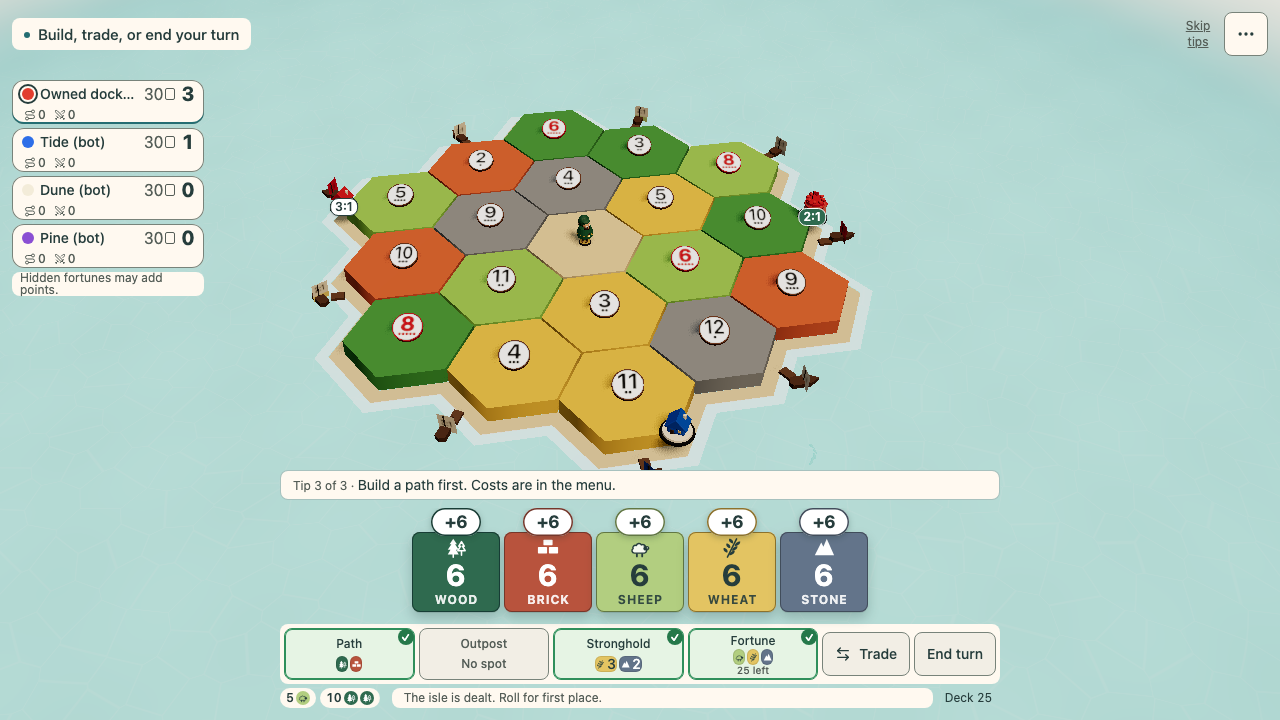
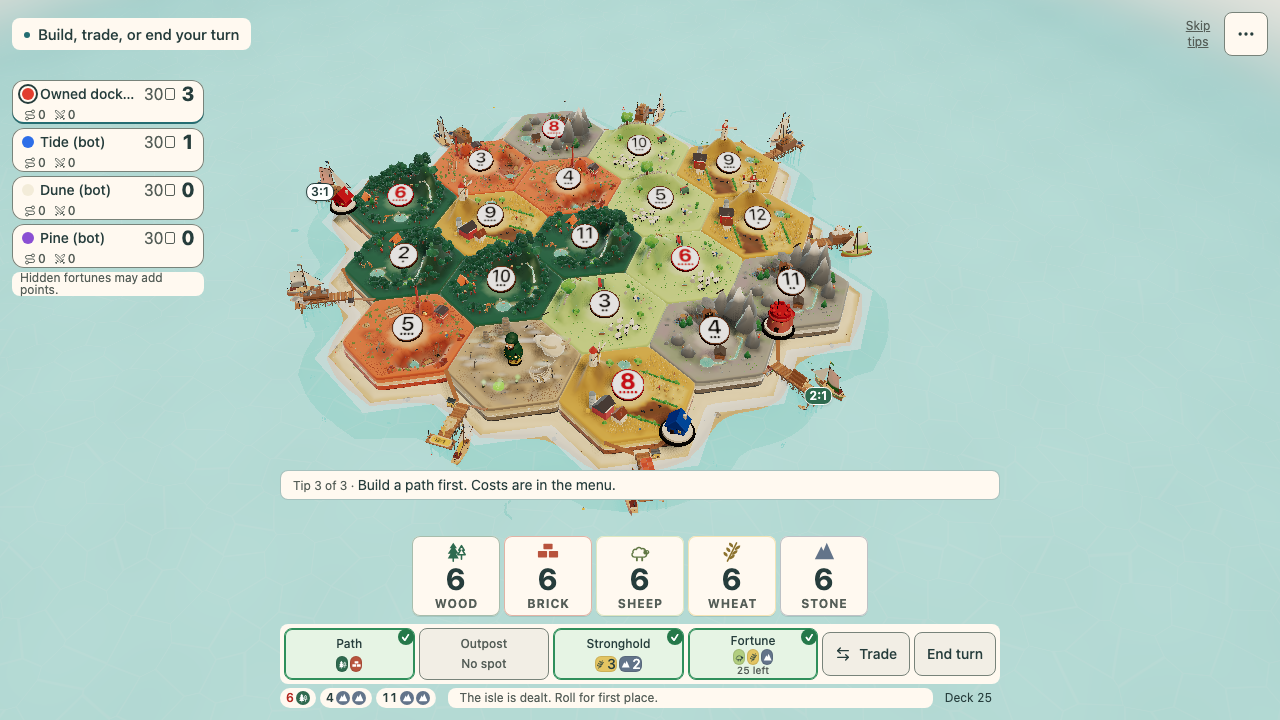
Put owned dock rates on the pier, not on the building (#560)
The owner rejected the chip over the controlling piece. The rate sits on the pier plate. If that plate would cover the piece, the chip steps further to sea.

Changed region(s): [[0.2188, 0.1222, 0.6875, 0.8556], [0.2188, 0.9472, 0.5, 1.0]]

diff --git a/src/lib/scene/isle-renderer.ts b/src/lib/scene/isle-renderer.ts
@@ -282,6 +282,8 @@ export class IsleRenderer {
   private docksDirty = true;
   onOwnedDocks: (docks: readonly OwnedDockPosition[]) => void = () => {};
   private ownedDockPositions: OwnedDockPosition[] = [];
+  // Rate plates on the jelly piers, keyed by either corner of the dock. Empty until the shore swaps in.
+  private dockPlates = new Map<string, { x: number; y: number; z: number }>();
   private ownedDocksDirty = true;
   private choice: WaterPath | null = null;
   private waterSet = false;
@@ -1537,18 +1539,58 @@ export class IsleRenderer {
     }
   }
 
-  // Project the controlling buildings independently of land geometry and placement marks (#560).
+  // Where the owned rate sits: the pier plate once the shore is in, otherwise the plain pier's sea end.
+  // Owner 2026-11-03: not on the controlling building. Owner 2026-10-16: not on the sails.
+  private dockSpot(id: string): { x: number; y: number; z: number } | null {
+    const plate = this.dockPlates.get(id);
+    if (plate) return plate;
+    const dock = this.docks.find((d) => d.vids.includes(id));
+    if (!dock) return null;
+    return { x: dock.cx + dock.mx * 0.46, y: 0.14, z: dock.cz + dock.mz * 0.46 };
+  }
+
+  // The chip's page point: the pier plate, pushed further to sea when that plate would cover the building.
+  private labelPoint(id: string, vertex: { x: number; z: number }, top: number): { x: number; y: number } | null {
+    const spot = this.dockSpot(id);
+    if (!spot || !this.lastState) return null;
+    const plate = this.screenAt(spot.x, spot.y, spot.z);
+    const house = this.screenAt(vertex.x, top, vertex.z);
+    let dx = plate.x - house.x;
+    let dy = plate.y - house.y;
+    let dist = Math.hypot(dx, dy);
+    if (dist < 1) {
+      const dock = this.docks.find((d) => d.vids.includes(id));
+      if (!dock) return plate;
+      const out = this.screenAt(dock.cx + dock.mx, 0.14, dock.cz + dock.mz);
+      const mid = this.screenAt(dock.cx, 0.14, dock.cz);
+      dx = out.x - mid.x;
+      dy = out.y - mid.y;
+      dist = Math.hypot(dx, dy) || 1;
+    }
+    // The chip is about 28 by 18. Keep its centre at least 28 px from the building point.
+    const clear = 28;
+    if (dist >= clear) return plate;
+    return { x: house.x + (dx / dist) * clear, y: house.y + (dy / dist) * clear };
+  }
+
+  // Where the owned-rate chip sits, in page pixels. The owned-dock proof reads it.
+  pierScreen(id: string): { x: number; y: number } | null {
+    const st = this.lastState;
+    const vertex = st?.vertices.find((v) => v.id === id);
+    if (!st || !vertex) return null;
+    return this.labelPoint(id, vertex, vertexTop(hexTops(st), vertex));
+  }
+
+  // Project owned rates onto their docks, not the buildings (#560).
   private updateOwnedDockPositions() {
     if (this.titleMode || !this.ownedDocksDirty || !this.lastState) return;
     this.ownedDocksDirty = false;
-    const rect = this.renderer.domElement.getBoundingClientRect();
     const tops = hexTops(this.lastState);
     const docks = this.lastState.vertices.flatMap((v) => {
       if (!v.harbor || !v.building) return [];
-      const p = _p.set(v.x, vertexTop(tops, v), v.z).project(this.cam());
-      return [{ id: v.id, owner: v.building.playerId, kind: v.harbor,
-        x: rect.left + (p.x + 1) * rect.width / 2,
-        y: rect.top + (1 - p.y) * rect.height / 2 }];
+      const point = this.labelPoint(v.id, v, vertexTop(tops, v));
+      if (!point) return [];
+      return [{ id: v.id, owner: v.building.playerId, kind: v.harbor, x: point.x, y: point.y }];
     });
     if (docks.length === this.ownedDockPositions.length && docks.every((d, i) => {
       const previous = this.ownedDockPositions[i]!;
@@ -1742,6 +1784,7 @@ export class IsleRenderer {
     this.boats = [];
     this.docks = [];
     this.piers = [];
+    this.dockPlates.clear();
     this.living.add(this.wayfarer);
     this.pickables = [];
     this.tokens = [];
@@ -1912,6 +1955,9 @@ export class IsleRenderer {
       this.crystal.wash = wash;
     }
     this.shore = shore;
+    this.dockPlates.clear();
+    for (const plate of shore.plates) for (const id of plate.vids) this.dockPlates.set(id, plate);
+    this.ownedDocksDirty = true;
     this.living.add(shore.group);
     if (this.lastState) this.paintSails(this.lastState);
     this.wake();

diff --git a/src/lib/scene/harbor-jelly.ts b/src/lib/scene/harbor-jelly.ts
@@ -15,6 +15,8 @@ export type CoastPt = { id: string; x: number; z: number; mx: number; mz: number
 export type Dock = { cx: number; cz: number; mx: number; mz: number; kind: HarborKind; vids: string[] };
 export type Shore = {
   group: THREE.Group;
+  // The rate plate on each pier's T-head, shared by that dock's two corners. Owner 2026-10-16: the rate is on the pier, not the sails.
+  plates: { vids: string[]; x: number; y: number; z: number }[];
   // Everything the swell carries (ships first, one per dock in order, then the buoys): rest = { x, z, yaw }.
   floaters: THREE.Group[];
   // The waterline as a coast (one point per sample, its outward normal), for the crystal sea's lace and swash.
@@ -635,6 +637,7 @@ function build(coast: CoastPt[], docks: Dock[], seed: number): Shore {
   const pierParts: THREE.BufferGeometry[] = [];
   const glowParts: THREE.BufferGeometry[] = [];
   const plateParts: THREE.BufferGeometry[] = [];
+  const plates: Shore["plates"] = [];
   const floaters: THREE.Group[] = [];
   const life: ((t: number) => void)[] = [];
   const box = new THREE.BoxGeometry(1, 1, 1);
@@ -689,6 +692,7 @@ function build(coast: CoastPt[], docks: Dock[], seed: number): Shore {
       const uv = pl.attributes.uv as THREE.BufferAttribute;
       for (let i = 0; i < uv.count; i++) uv.setY(i, 1 - (row + 1 - uv.getY(i)) / PLATE_KINDS.length);
       const at = world(0, DECK + 0.0085, tv);
+      plates.push({ vids: d.vids, x: at.x, y: at.y, z: at.z });
       plateParts.push(pl.rotateX(-Math.PI / 2).translate(at.x, at.y, at.z));
     }
     P(K.part(box, "#7a5236", [0, DECK - 0.014, tv + 0.08], [0, 0, 0], [0.45, 0.018, 0.014]));
@@ -1118,6 +1122,7 @@ function build(coast: CoastPt[], docks: Dock[], seed: number): Shore {
 
   return {
     group,
+    plates,
     floaters,
     waterline: water.map((w, i) => ({ x: w.x - normals[i]!.nx * 0.25, z: w.z - normals[i]!.nz * 0.25, mx: normals[i]!.nx, mz: normals[i]!.nz })),
     update,

diff --git a/src/components/scene/OwnedDockLabels.tsx b/src/components/scene/OwnedDockLabels.tsx
@@ -2,8 +2,8 @@ import { useGame } from "@/lib/game/store";
 import { RESOURCE_LABEL } from "@/lib/game/types";
 import type { OwnedDockPosition } from "@/lib/scene/isle-renderer";
 
-// #560, owner 2026-10-19: no sentence on the board. A rate chip sits on the building.
-// The full words stay here as the accessible name, and in the dock inspection.
+// #560. Owner 2026-11-03: the rate sits on the dock, not on the controlling building.
+// Owner 2026-10-16: the sails carry no rate. The full words stay as the accessible name.
 const phrase = (d: OwnedDockPosition) =>
   d.kind === "any" ? "Your 3:1 dock" : `Your 2:1 ${RESOURCE_LABEL[d.kind].toLowerCase()} dock`;
 
@@ -26,7 +26,7 @@ export default function OwnedDockLabels({ docks }: { docks: readonly OwnedDockPo
         style={{
           left: d.x,
           top: d.y,
-          // Keep the chip on the building, and 8 px inside the screen edges.
+          // Keep the chip on the dock, and 8 px inside the screen edges.
           translate: `clamp(calc(8px - ${d.x}px), -50%, calc(100vw - 8px - ${d.x}px - 100%)) -50%`,
           ...(good ? { background: `var(--${good})`, color: `var(--${good}-on)` } : {}),
         }}
